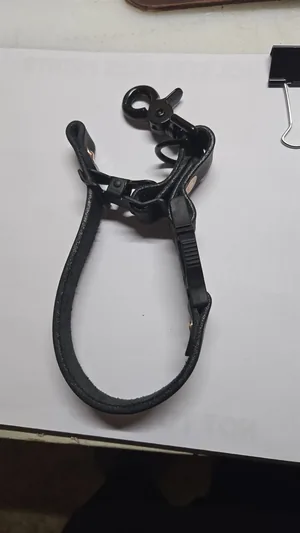
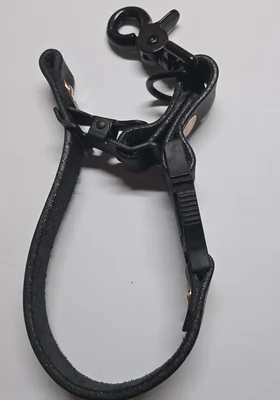
Crop the holster blueprint out of the glove strap photo
Merchant Center has this item disapproved under Guns and Parts. The cause
is in the second photo: the strap was shot lying on a sheet of paper
reading "HOLSTER BLUE PRINTS", and Google reads text inside product
images. A black leather strap with metal snap hardware, photographed on
top of the word HOLSTER, classifies about how you would expect.

Cropped to the strap itself, 901x1600 down to 700x1000, which drops the
sheet at the top and the bottom and loses nothing of the product -- it is
a cleaner shot on plain white than the original. Thumbnail regenerated at
280x400 and the declared dimensions on the product page follow it.

Nothing else on the item reads as weapons-related: the title, description
and the other two photos are clean, and 2047 Work Safety Protective Gear
is the right category. The feed still has to be re-fetched and the item
re-submitted for review in Merchant Center before the disapproval lifts.

diff --git a/product-glove-strap.html b/product-glove-strap.html
@@ -51,7 +51,7 @@ src="https://www.facebook.com/tr?id=1579558768885977&ev=PageView&noscript=1"/></
       <img width="1400" height="1050" class="product-main-image" data-main fetchpriority="high" src="assets/img/products/glove-strap.webp" alt="Adjustable Glove Strap" onerror="this.style.opacity=.15">
       <div class="product-thumbs">
         <button type="button" class="thumb active" data-full="assets/img/products/glove-strap.webp"><img width="400" height="300" loading="lazy" src="assets/img/products/thumbs/glove-strap.webp" alt="Burgundy leather glove strap with white stitching and black snap hook holding black structure gloves on a fire engine" onerror="this.parentElement.style.display='none'"></button>
-        <button type="button" class="thumb" data-full="assets/img/products/glove-strap-2.webp"><img width="300" height="533" loading="lazy" src="assets/img/products/thumbs/glove-strap-2.webp" alt="Adjustable leather glove strap for firefighter structure gloves" onerror="this.parentElement.style.display='none'"></button>
+        <button type="button" class="thumb" data-full="assets/img/products/glove-strap-2.webp"><img width="280" height="400" loading="lazy" src="assets/img/products/thumbs/glove-strap-2.webp" alt="Adjustable leather glove strap for firefighter structure gloves" onerror="this.parentElement.style.display='none'"></button>
         <button type="button" class="thumb" data-full="assets/img/products/glove-strap-3.webp"><img width="300" height="400" loading="lazy" src="assets/img/products/thumbs/glove-strap-3.webp" alt="Black structure gloves clipped to a fire truck with a leather glove strap and black swivel snap hook" onerror="this.parentElement.style.display='none'"></button>
       </div>
     </div>
